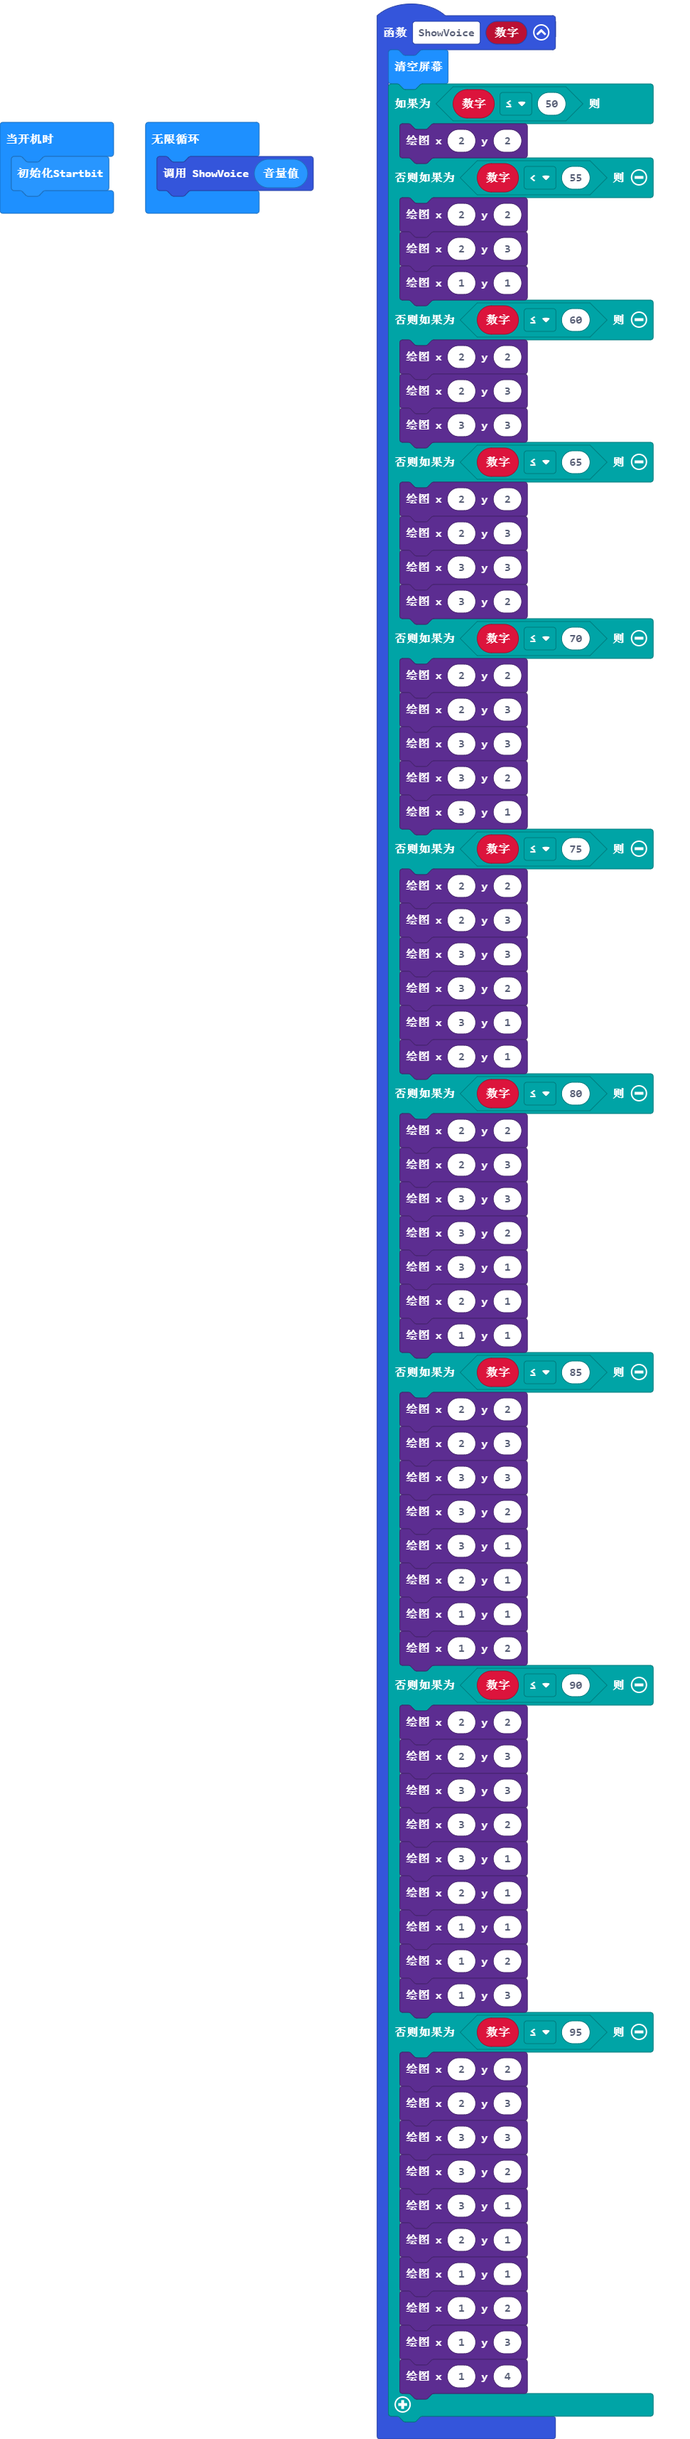
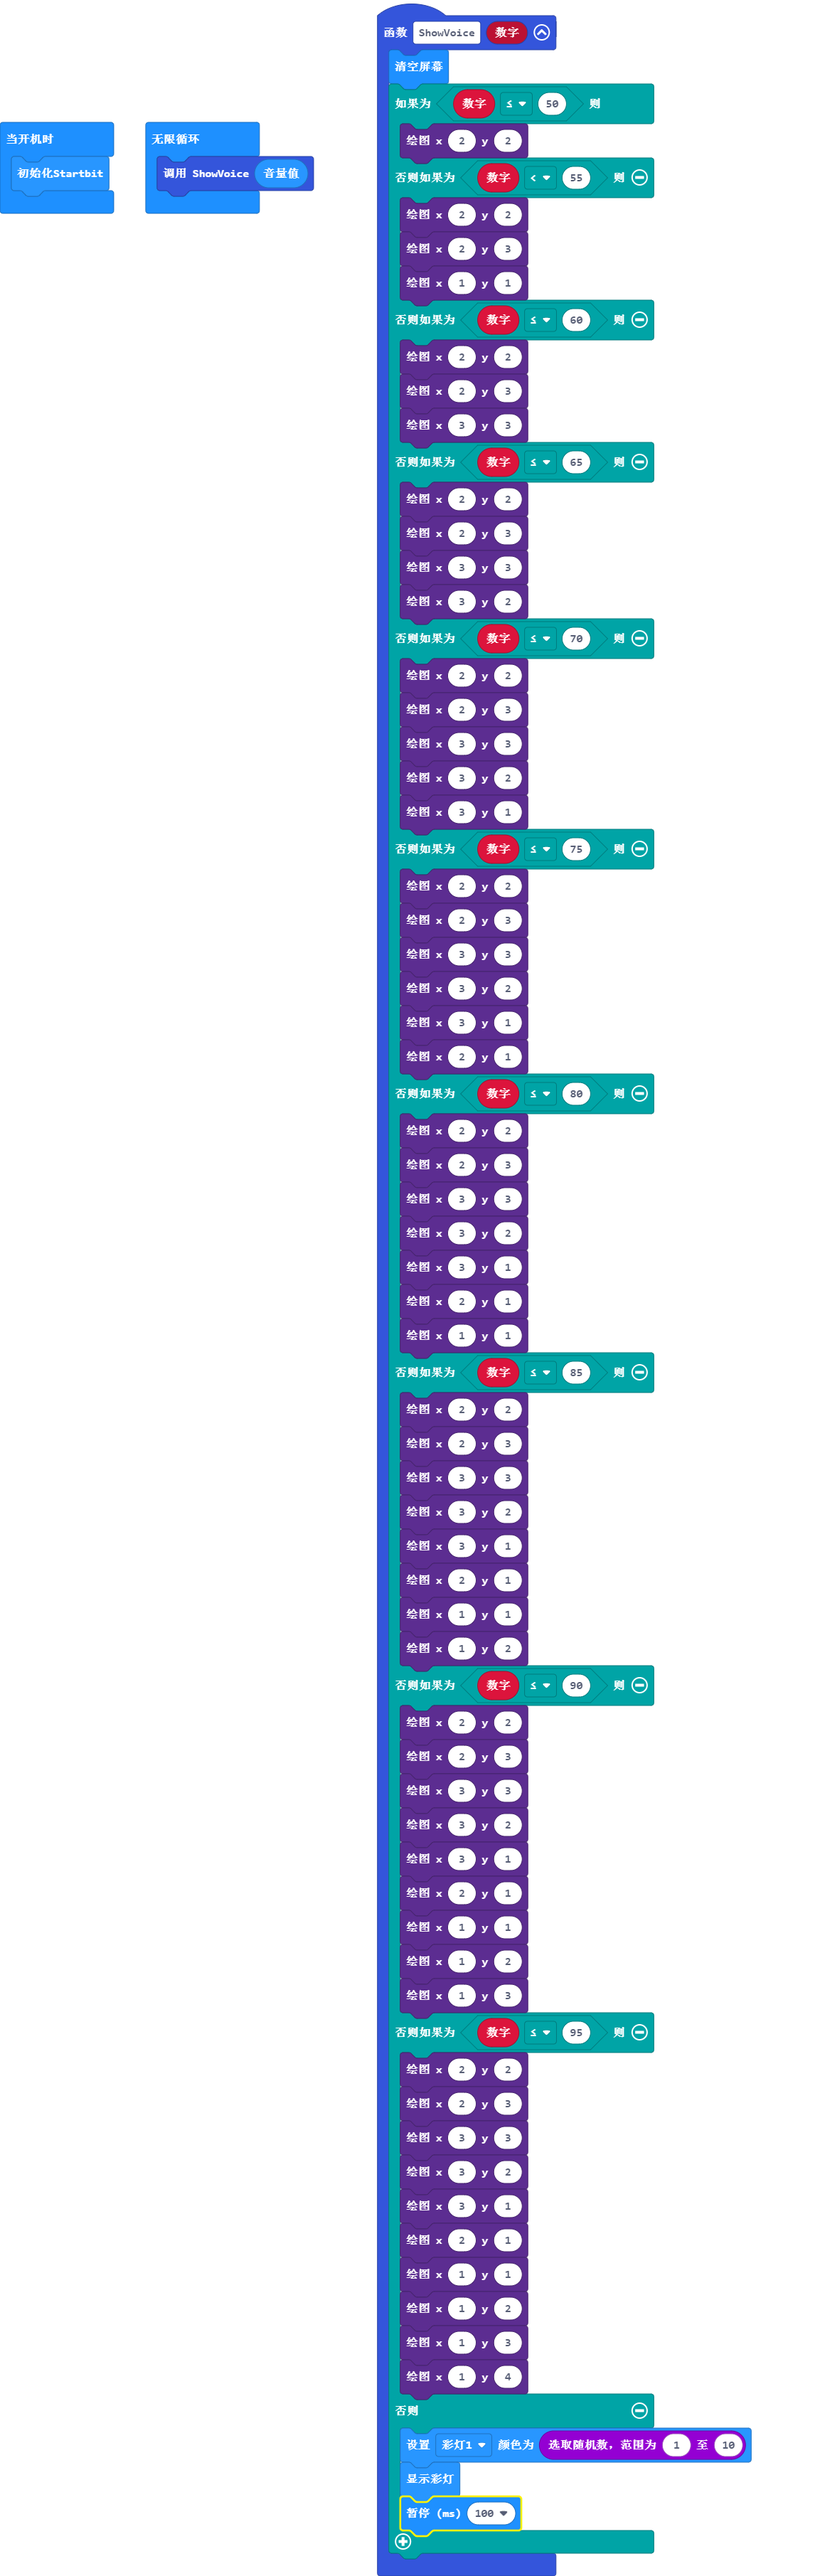
更新 main.blocks, main.ts

Changed region(s): [[0.0, 0.0, 0.9578, 1.0]]

diff --git a/main.ts b/main.ts
@@ -66,6 +66,10 @@ function ShowVoice (数字: number) {
         led.plot(1, 2)
         led.plot(1, 3)
         led.plot(1, 4)
+    } else {
+        startbit.startbit_setPixelRGBArgs(StartbitLights.Light1, randint(1, 10))
+        startbit.startbit_showLight()
+        basic.pause(100)
     }
 }
 startbit.startbit_Init()
